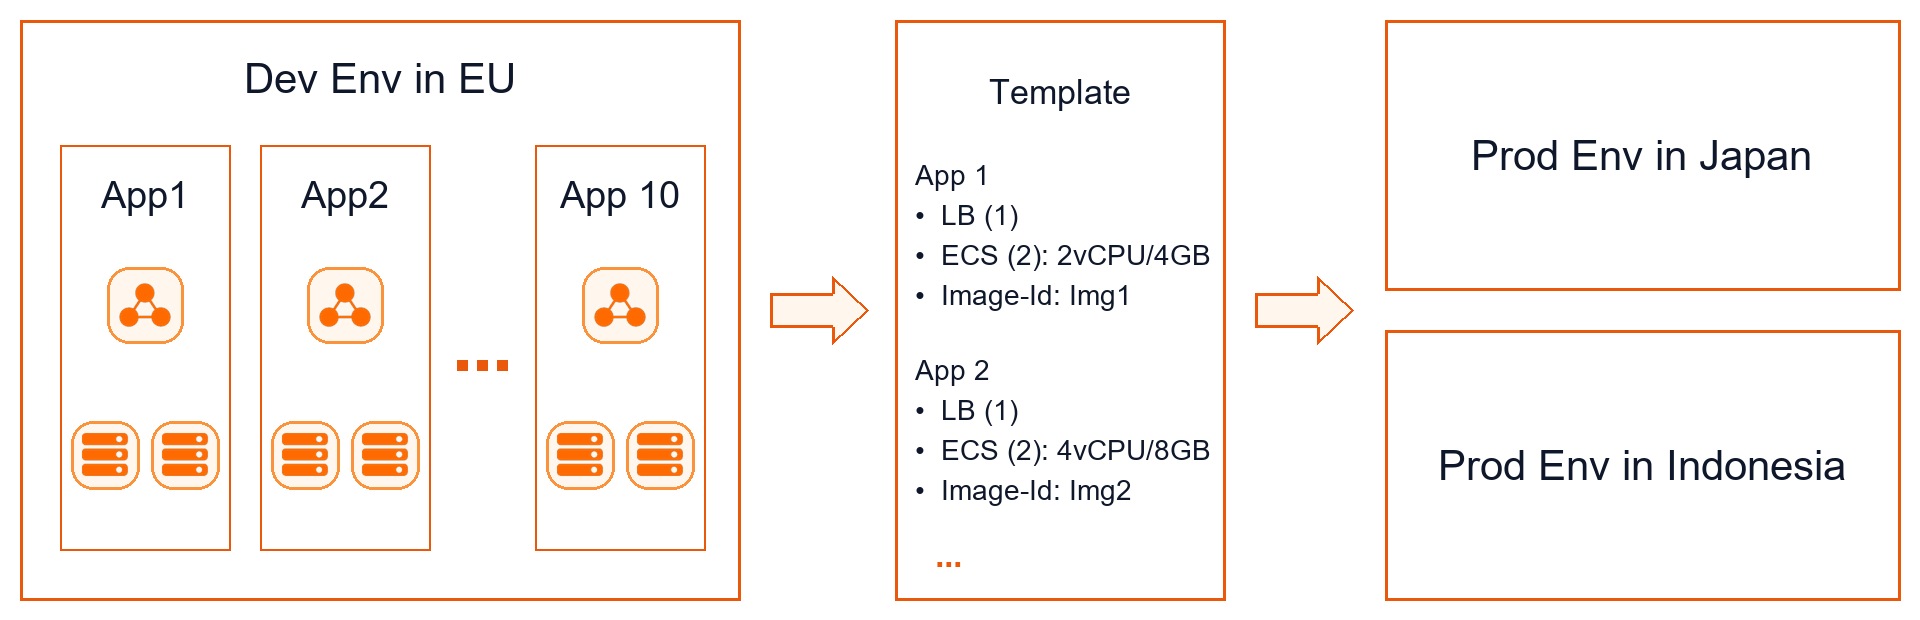
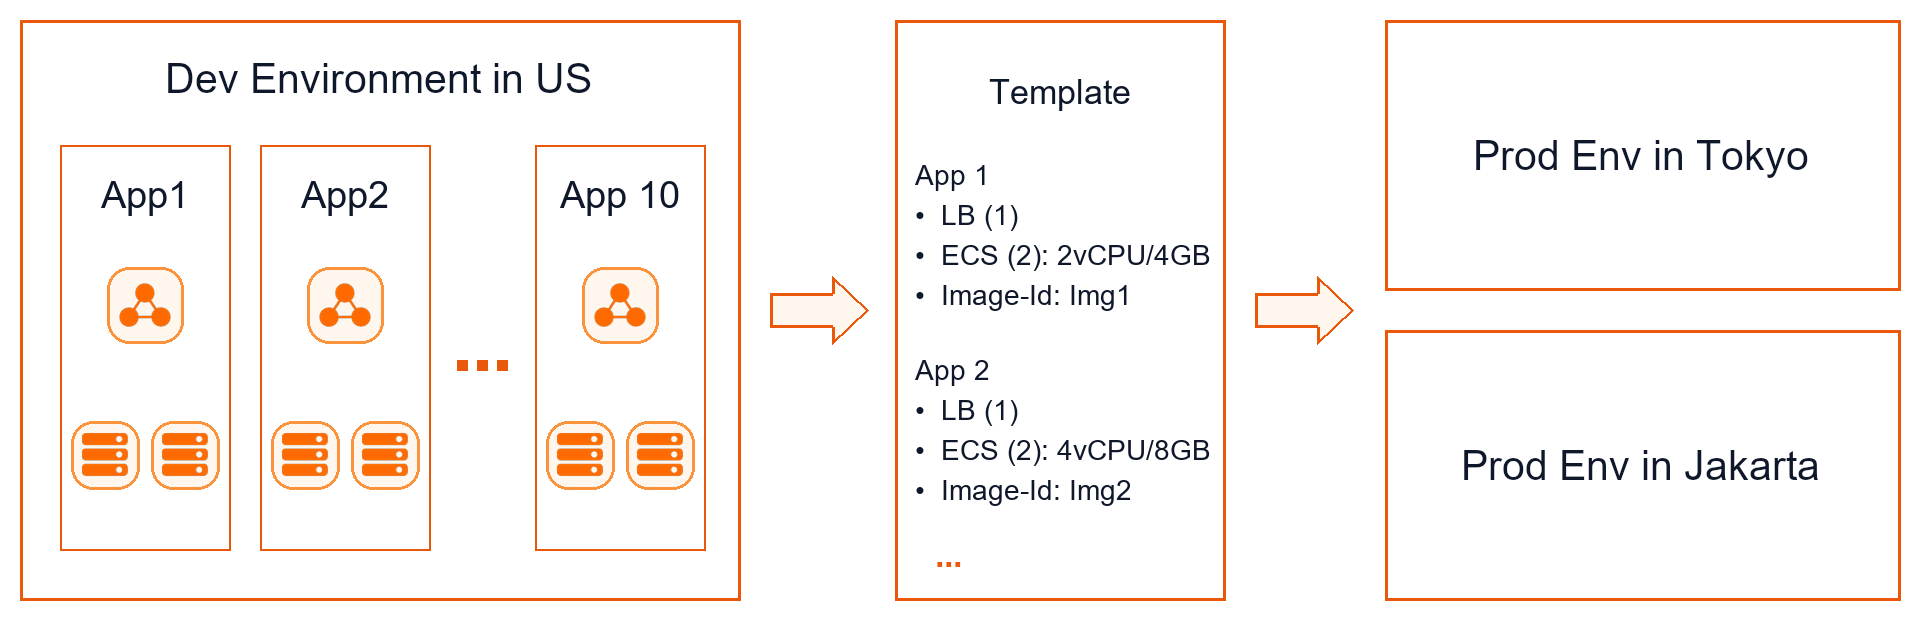
Update Overview module: expand Slide 6 diagram and update Slide 12 multi-environment names to US, Tokyo, and Jakarta

Changed region(s): [[0.75, 0.7048, 0.9688, 0.7968], [0.0938, 0.0919, 0.3125, 0.1532], [0.7812, 0.2145, 0.9688, 0.2758]]

diff --git a/course/index.html b/course/index.html
@@ -186,33 +186,11 @@
       <div class="slide-category">Section 1: Global Infrastructure &amp; Platform</div>
       <h2>Enterprise Security &amp; Compliance Standards</h2>
       
-      <div class="diagram-container clean" style="display: flex; flex-direction: column; align-items: center; justify-content: center; margin: 0 auto; width: 100%;">
-        <img src="assets/images/overview-security-compliance.png" alt="Security &amp; Compliance Certifications" class="diagram-image-lg" style="max-height: 440px; width: auto; max-width: 95%; object-fit: contain;">
-      </div>
-
-      <div class="grid-3" style="margin-top: 0.75rem; gap: 0.85rem;">
-        <div class="content-card highlight-green" style="padding: 0.75rem 1rem;">
-          <h4 style="margin: 0 0 0.25rem 0; font-size: calc(0.85rem + var(--font-delta)); color: var(--text-main);">Global Accreditations</h4>
-          <p style="margin: 0; font-size: calc(0.75rem + var(--font-delta)); color: var(--text-secondary); line-height: 1.35;">
-            Certified with ISO 27001, SOC 1/2/3, and PCI-DSS Level 1 for banking-grade transactions.
-          </p>
-        </div>
-        <div class="content-card highlight-blue" style="padding: 0.75rem 1rem;">
-          <h4 style="margin: 0 0 0.25rem 0; font-size: calc(0.85rem + var(--font-delta)); color: var(--text-main);">Privacy &amp; Compliance</h4>
-          <p style="margin: 0; font-size: calc(0.75rem + var(--font-delta)); color: var(--text-secondary); line-height: 1.35;">
-            Full compliance with GDPR privacy frameworks and Indonesian national regulations.
-          </p>
-        </div>
-        <div class="content-card" style="padding: 0.75rem 1rem; border-top: 3px solid var(--primary);">
-          <h4 style="margin: 0 0 0.25rem 0; font-size: calc(0.85rem + var(--font-delta)); color: var(--text-main);">Data Sovereignty</h4>
-          <p style="margin: 0; font-size: calc(0.75rem + var(--font-delta)); color: var(--text-secondary); line-height: 1.35;">
-            Customer data is strictly isolated with envelope encryption via Key Management Service (KMS).
-          </p>
-        </div>
+      <div class="architecture-diagram-wrapper" style="flex: 1; display: flex; flex-direction: column; align-items: center; justify-content: center; width: 100%; min-height: 0; margin-top: 0.5rem;">
+        <img src="assets/images/overview-security-compliance.png" alt="Security &amp; Compliance Certifications" class="architecture-diagram" style="max-height: 520px; width: 100%; height: auto; object-fit: contain;">
       </div>
     </section>
 
-    <!-- ==================== SLIDE 7: COMPUTING SERVICES OVERVIEW ==================== -->
     <section class="slide" data-category="Computing Services">
       <div class="slide-category">Section 2: Computing Services</div>
       <h2>Computing Services Portfolio</h2>
@@ -498,7 +476,7 @@
       <div class="grid-2" style="align-items: center; gap: 1.5rem;">
         <div class="diagram-container clean" style="display: flex; flex-direction: column; align-items: center;">
           <img src="assets/images/overview-ros-template-workflow.png" alt="ROS Multi-Region Workflow" style="max-height: 440px; width: 100%; object-fit: contain;">
-          <div class="diagram-caption">Single Template Deployment Across Indonesia, Japan &amp; Europe</div>
+          <div class="diagram-caption">Single Template Deployment Across Jakarta, Tokyo &amp; US</div>
         </div>
 
         <div style="display: flex; flex-direction: column; gap: 0.85rem;">
@@ -512,9 +490,9 @@
           <div class="content-card highlight-green">
             <h3>Cross-Region Rapid Replication</h3>
             <ul class="feature-list">
-              <li><strong>Production Environment in Indonesia:</strong> Instantly provisioned in Jakarta Region with local compliance parameters.</li>
-              <li><strong>Production Environment in Japan:</strong> Identical stack cloned into Tokyo Region for international low-latency users.</li>
-              <li><strong>Development Environment in EU:</strong> Scaled-down development stack launched in Frankfurt using identical template variables.</li>
+              <li><strong>Production Environment in Jakarta:</strong> Instantly provisioned in Jakarta Region with local compliance parameters.</li>
+              <li><strong>Production Environment in Tokyo:</strong> Identical stack cloned into Tokyo Region for international low-latency users.</li>
+              <li><strong>Development Environment in US:</strong> Scaled-down development stack launched in Silicon Valley using identical template variables.</li>
             </ul>
           </div>
 

diff --git a/course/module-01-overview.html b/course/module-01-overview.html
@@ -186,33 +186,11 @@
       <div class="slide-category">Section 1: Global Infrastructure &amp; Platform</div>
       <h2>Enterprise Security &amp; Compliance Standards</h2>
       
-      <div class="diagram-container clean" style="display: flex; flex-direction: column; align-items: center; justify-content: center; margin: 0 auto; width: 100%;">
-        <img src="assets/images/overview-security-compliance.png" alt="Security &amp; Compliance Certifications" class="diagram-image-lg" style="max-height: 440px; width: auto; max-width: 95%; object-fit: contain;">
-      </div>
-
-      <div class="grid-3" style="margin-top: 0.75rem; gap: 0.85rem;">
-        <div class="content-card highlight-green" style="padding: 0.75rem 1rem;">
-          <h4 style="margin: 0 0 0.25rem 0; font-size: calc(0.85rem + var(--font-delta)); color: var(--text-main);">Global Accreditations</h4>
-          <p style="margin: 0; font-size: calc(0.75rem + var(--font-delta)); color: var(--text-secondary); line-height: 1.35;">
-            Certified with ISO 27001, SOC 1/2/3, and PCI-DSS Level 1 for banking-grade transactions.
-          </p>
-        </div>
-        <div class="content-card highlight-blue" style="padding: 0.75rem 1rem;">
-          <h4 style="margin: 0 0 0.25rem 0; font-size: calc(0.85rem + var(--font-delta)); color: var(--text-main);">Privacy &amp; Compliance</h4>
-          <p style="margin: 0; font-size: calc(0.75rem + var(--font-delta)); color: var(--text-secondary); line-height: 1.35;">
-            Full compliance with GDPR privacy frameworks and Indonesian national regulations.
-          </p>
-        </div>
-        <div class="content-card" style="padding: 0.75rem 1rem; border-top: 3px solid var(--primary);">
-          <h4 style="margin: 0 0 0.25rem 0; font-size: calc(0.85rem + var(--font-delta)); color: var(--text-main);">Data Sovereignty</h4>
-          <p style="margin: 0; font-size: calc(0.75rem + var(--font-delta)); color: var(--text-secondary); line-height: 1.35;">
-            Customer data is strictly isolated with envelope encryption via Key Management Service (KMS).
-          </p>
-        </div>
+      <div class="architecture-diagram-wrapper" style="flex: 1; display: flex; flex-direction: column; align-items: center; justify-content: center; width: 100%; min-height: 0; margin-top: 0.5rem;">
+        <img src="assets/images/overview-security-compliance.png" alt="Security &amp; Compliance Certifications" class="architecture-diagram" style="max-height: 520px; width: 100%; height: auto; object-fit: contain;">
       </div>
     </section>
 
-    <!-- ==================== SLIDE 7: COMPUTING SERVICES OVERVIEW ==================== -->
     <section class="slide" data-category="Computing Services">
       <div class="slide-category">Section 2: Computing Services</div>
       <h2>Computing Services Portfolio</h2>
@@ -498,7 +476,7 @@
       <div class="grid-2" style="align-items: center; gap: 1.5rem;">
         <div class="diagram-container clean" style="display: flex; flex-direction: column; align-items: center;">
           <img src="assets/images/overview-ros-template-workflow.png" alt="ROS Multi-Region Workflow" style="max-height: 440px; width: 100%; object-fit: contain;">
-          <div class="diagram-caption">Single Template Deployment Across Indonesia, Japan &amp; Europe</div>
+          <div class="diagram-caption">Single Template Deployment Across Jakarta, Tokyo &amp; US</div>
         </div>
 
         <div style="display: flex; flex-direction: column; gap: 0.85rem;">
@@ -512,9 +490,9 @@
           <div class="content-card highlight-green">
             <h3>Cross-Region Rapid Replication</h3>
             <ul class="feature-list">
-              <li><strong>Production Environment in Indonesia:</strong> Instantly provisioned in Jakarta Region with local compliance parameters.</li>
-              <li><strong>Production Environment in Japan:</strong> Identical stack cloned into Tokyo Region for international low-latency users.</li>
-              <li><strong>Development Environment in EU:</strong> Scaled-down development stack launched in Frankfurt using identical template variables.</li>
+              <li><strong>Production Environment in Jakarta:</strong> Instantly provisioned in Jakarta Region with local compliance parameters.</li>
+              <li><strong>Production Environment in Tokyo:</strong> Identical stack cloned into Tokyo Region for international low-latency users.</li>
+              <li><strong>Development Environment in US:</strong> Scaled-down development stack launched in Silicon Valley using identical template variables.</li>
             </ul>
           </div>
 
